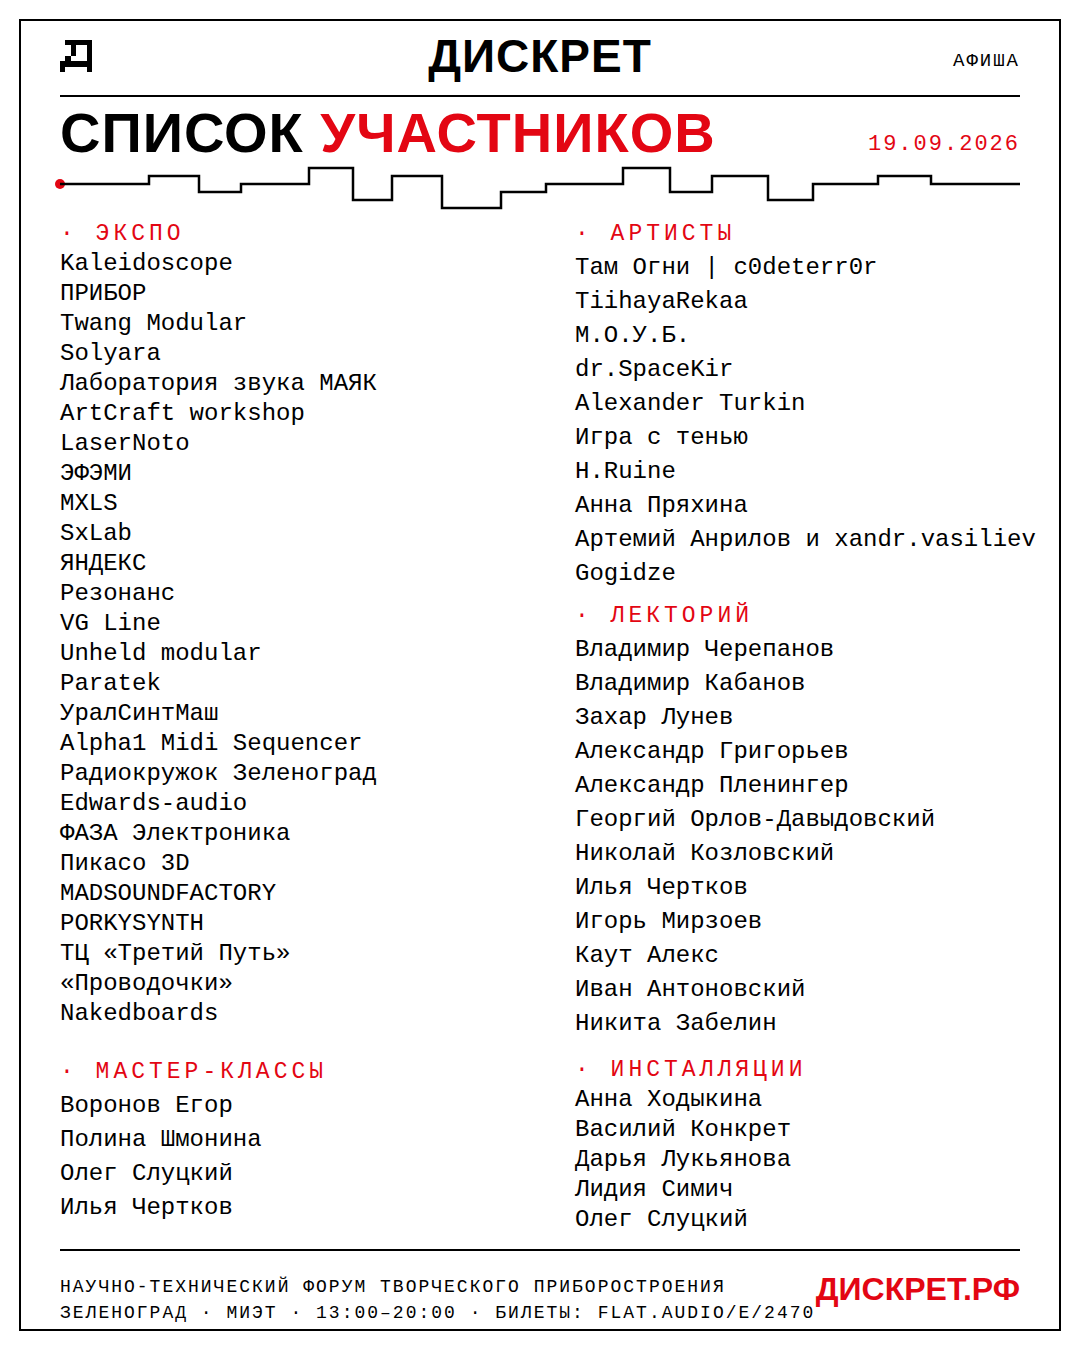
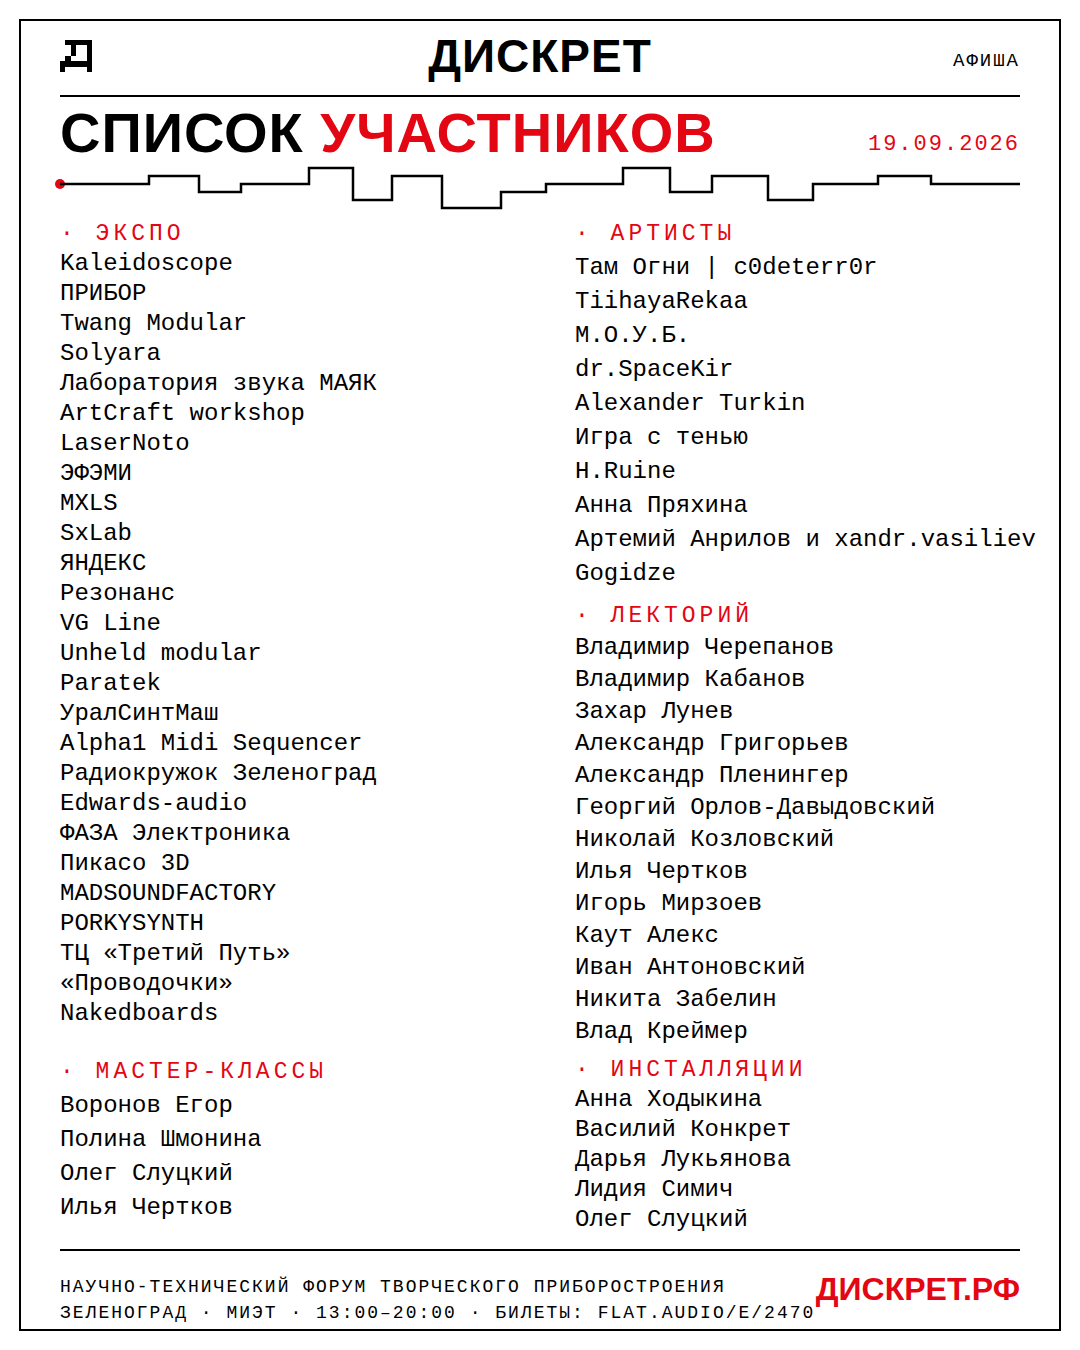
Влад Креймер (SOMA Laboratory) добавлен в лекторий
Страница спикера в приложении, строка в лекционном блоке РАСТР
(тема и время уточняются), имя в списке участников на афише
(шаг лектория ужат до 32, чтобы не пересекаться с инсталляциями),
запись в lectures.md.

Claude-Session: https://claude.ai/code/session_01J7cakNvVwscKzgnd8yf78u

Changed region(s): [[0.5194, 0.4667, 0.8861, 0.7778]]

diff --git a/branding/app/index.html b/branding/app/index.html
@@ -637,6 +637,7 @@ const SCHED = [
   { t:"18:00", e:"", title:"Alexander Turkin", who:"", room:"sm", author:"turkin" },
   { t:"18:00", e:"19:00", title:"Медицинский звук: использование в звукоэкспериментальных целях непрофильной техники", who:"Владимир Черепанов", room:"l1" },
   { t:"18:00", e:"19:00", title:"Опыт малотиражной разработки", who:"Алекс Каут · Boring modular", room:"l2" },
+  { t:"", e:"", title:"Лекция SOMA Laboratory · тема уточняется", who:"Влад Креймер · время уточняется", room:"l1", author:"kremer" },
   { t:"19:00", e:"20:00", title:"Финальное выступление · результаты конкурса", who:"", room:"sb" },
 ];
 
@@ -680,6 +681,9 @@ const A = [
   { id:"turkin", name:"Alexander Turkin", role:"Живая электроника · Pulsar-23", session:"ЛАЙВ", room:"sm", time:"18:00", photos:[],
     links:[{t:"INSTAGRAM",u:"https://instagram.com/a.atu"}],
     desc:"Живая электроника Александра Туркина: Pulsar-23, педали эффектов и микшер — весь звук собирается на столе, вживую." },
+  { id:"kremer", name:"Влад Креймер", role:"Основатель SOMA Laboratory", session:"ЛЕКЦИЯ · SOMA", room:"", time:"уточняется", photos:[],
+    links:[{t:"САЙТ",u:"https://somasynths.com"}],
+    desc:"Инженер и музыкант, основатель SOMA Laboratory — лаборатории «органисмических» инструментов: синтезатор Lyra-8, драм-машина Pulsar-23, широкополосный приёмник Ether, Terra и другие. Приборы SOMA известны музыкантам по всему миру; в основе подхода — инструмент как живой организм, с которым исполнитель вступает в диалог.\n\nТема и время лекции уточняются." },
   { id:"vgrigoriev", name:"Вячеслав Григорьев", role:"Основатель MAD SOUND FACTORY и VG-line", session:"", room:"", time:"", photos:[],
     links:[{t:"MAD SOUND FACTORY",u:"https://madsoundfactory.com"},{t:"VG-LINE",u:"https://instagram.com/vg.line/"}],
     desc:"Разрабатывает собственные музыкальные инструменты — самостоятельно и в сотрудничестве с брендами и музыкантами. Производит свои инструменты и оказывает услуги по производству другим брендам. Регион — ЕАЭС." },
